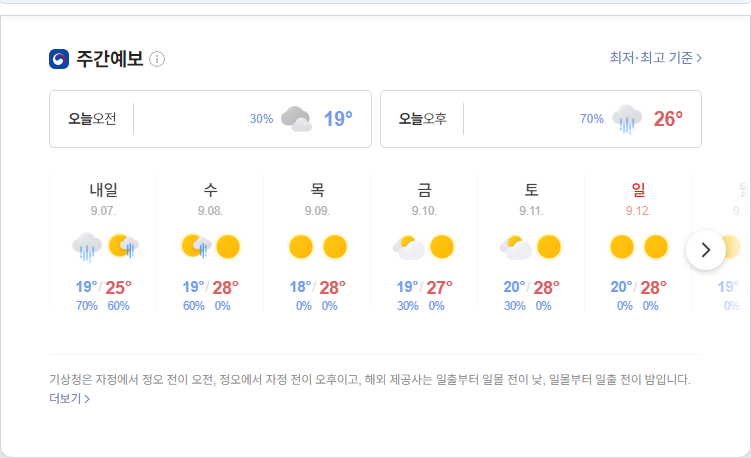
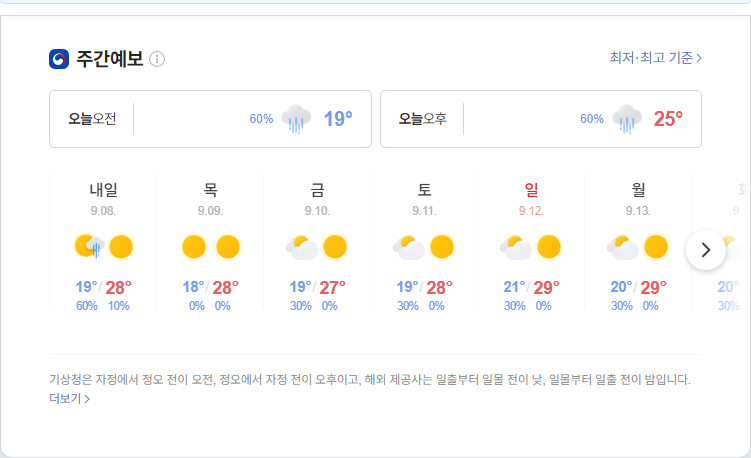
update result

diff --git a/README.md b/README.md
@@ -1,5 +1,5 @@
-##  2021-09-06 16:03:11   월요일 
-##### 날씨   -   어제보다 2° 낮아요비  
+##  2021-09-07 05:54:51   화요일 
+##### 날씨   -   어제보다 3° 낮아요흐림  
 <center><img src="../img/naver_weather_week.png"></center>
 ----
 ----
@@ -16,14 +16,14 @@
 <tr align = "right" > <td>DOW</td><td>35,369.09</td><td>-74.73</td><td><font size="3" color="blue" >-0.21%</font></td><td><font size="3" color="black">0</font></td><td><font size="3" color="black">0</font></td><td>0</td>  </tr>
 <tr align = "right" > <td>NASDAQ</td><td>15,363.52</td><td>32.34</td><td><font size="3" color="red" >0.21%</font></td><td><font size="3" color="black">0</font></td><td><font size="3" color="black">0</font></td><td>0</td>  </tr>
 <tr align = "right" > <td>S&P</td><td>4,535.43</td><td>-1.52</td><td><font size="3" color="blue" >-0.03%</font></td><td><font size="3" color="black">0</font></td><td><font size="3" color="black">0</font></td><td>0</td>  </tr>
-<tr align = "right" > <td>SHANHAI</td><td>3,621.51</td><td>39.77</td><td><font size="3" color="red" >1.11%</font></td><td><font size="3" color="black">0</font></td><td><font size="3" color="black">0</font></td><td>0</td>  </tr>
-<tr align = "right" > <td>INDIA</td><td>58,286.1</td><td>156.15</td><td><font size="3" color="red" >0.27%</font></td><td><font size="3" color="black">0</font></td><td><font size="3" color="black">0</font></td><td>0</td>  </tr>
+<tr align = "right" > <td>SHANHAI</td><td>3,621.86</td><td>40.12</td><td><font size="3" color="red" >1.12%</font></td><td><font size="3" color="black">0</font></td><td><font size="3" color="black">0</font></td><td>0</td>  </tr>
+<tr align = "right" > <td>INDIA</td><td>58,296.91</td><td>166.96</td><td><font size="3" color="red" >0.29%</font></td><td><font size="3" color="black">0</font></td><td><font size="3" color="black">0</font></td><td>0</td>  </tr>
 </table>
 ----
 ##### 시장
 <table border="1" bordercolor="blue" align = "center" >
 <tr align = "right" > <td>Item</td><td>Price</td><td>Diff</td><td>Rate</td><td>Buy</td><td>Sell</td><td>...</td>  </tr>
-<tr align = "right" > <td>USD</td><td>1,156.0</td><td>-0.5</td><td><font size="3" color="blue">-0.04%</font></td><td><font size="3" color="black">1,110</font></td><td><font size="3" color="black">0</font></td><td>0</td>  </tr>
+<tr align = "right" > <td>USD</td><td>1,157.0</td><td>0.0</td><td><font size="3" color="black">0%</font></td><td><font size="3" color="black">1,110</font></td><td><font size="3" color="black">0</font></td><td>0</td>  </tr>
 <tr align = "right" > <td>WTI</td><td>69.29</td><td>-0.7</td><td><font size="3" color="blue">-1.0%</font></td><td><font size="3" color="black">29.0</font></td><td><font size="3" color="black">0</font></td><td>0</td>  </tr>
 <tr align = "right" > <td>GOLD</td><td>1,830.0</td><td>22.2</td><td><font size="3" color="red">1.22%</font></td><td><font size="3" color="black">0</font></td><td><font size="3" color="black">0</font></td><td>0</td>  </tr>
 </table>
